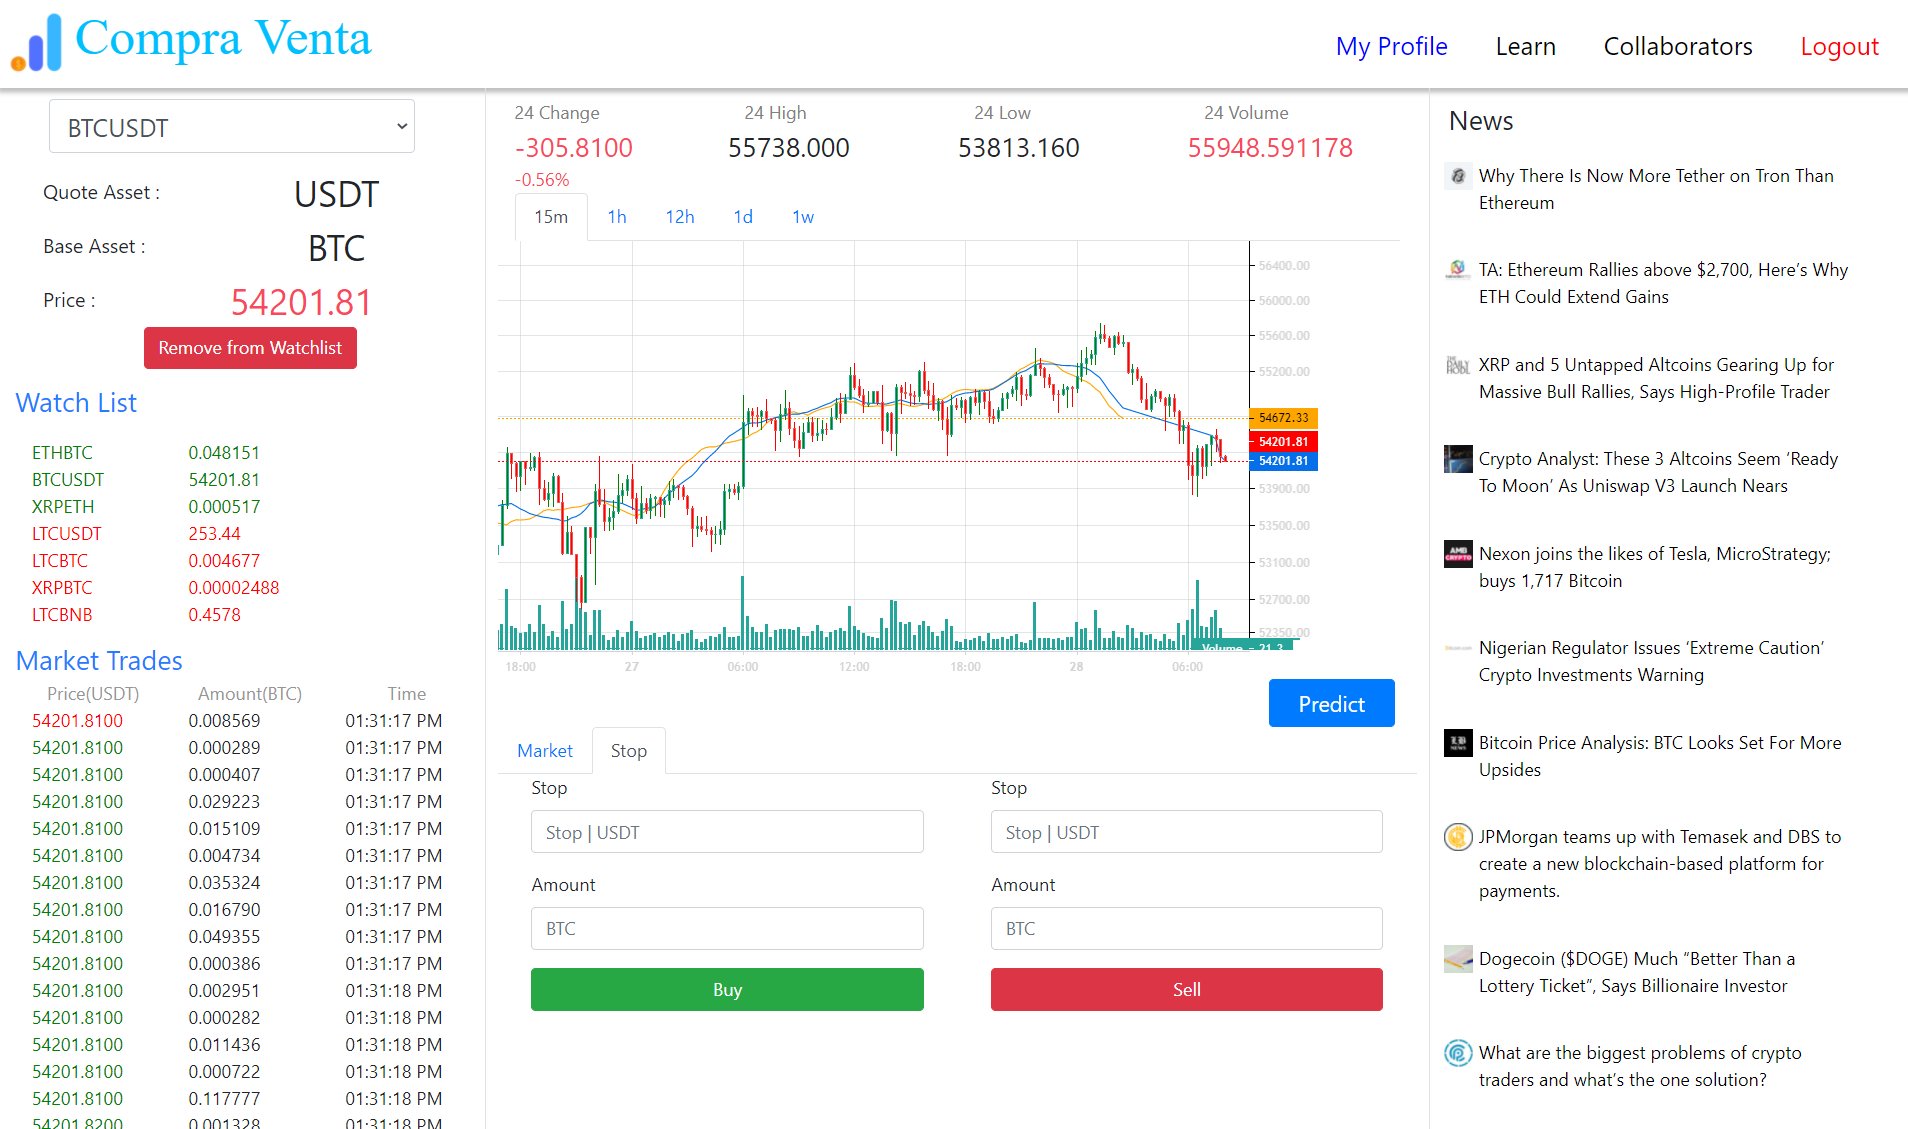
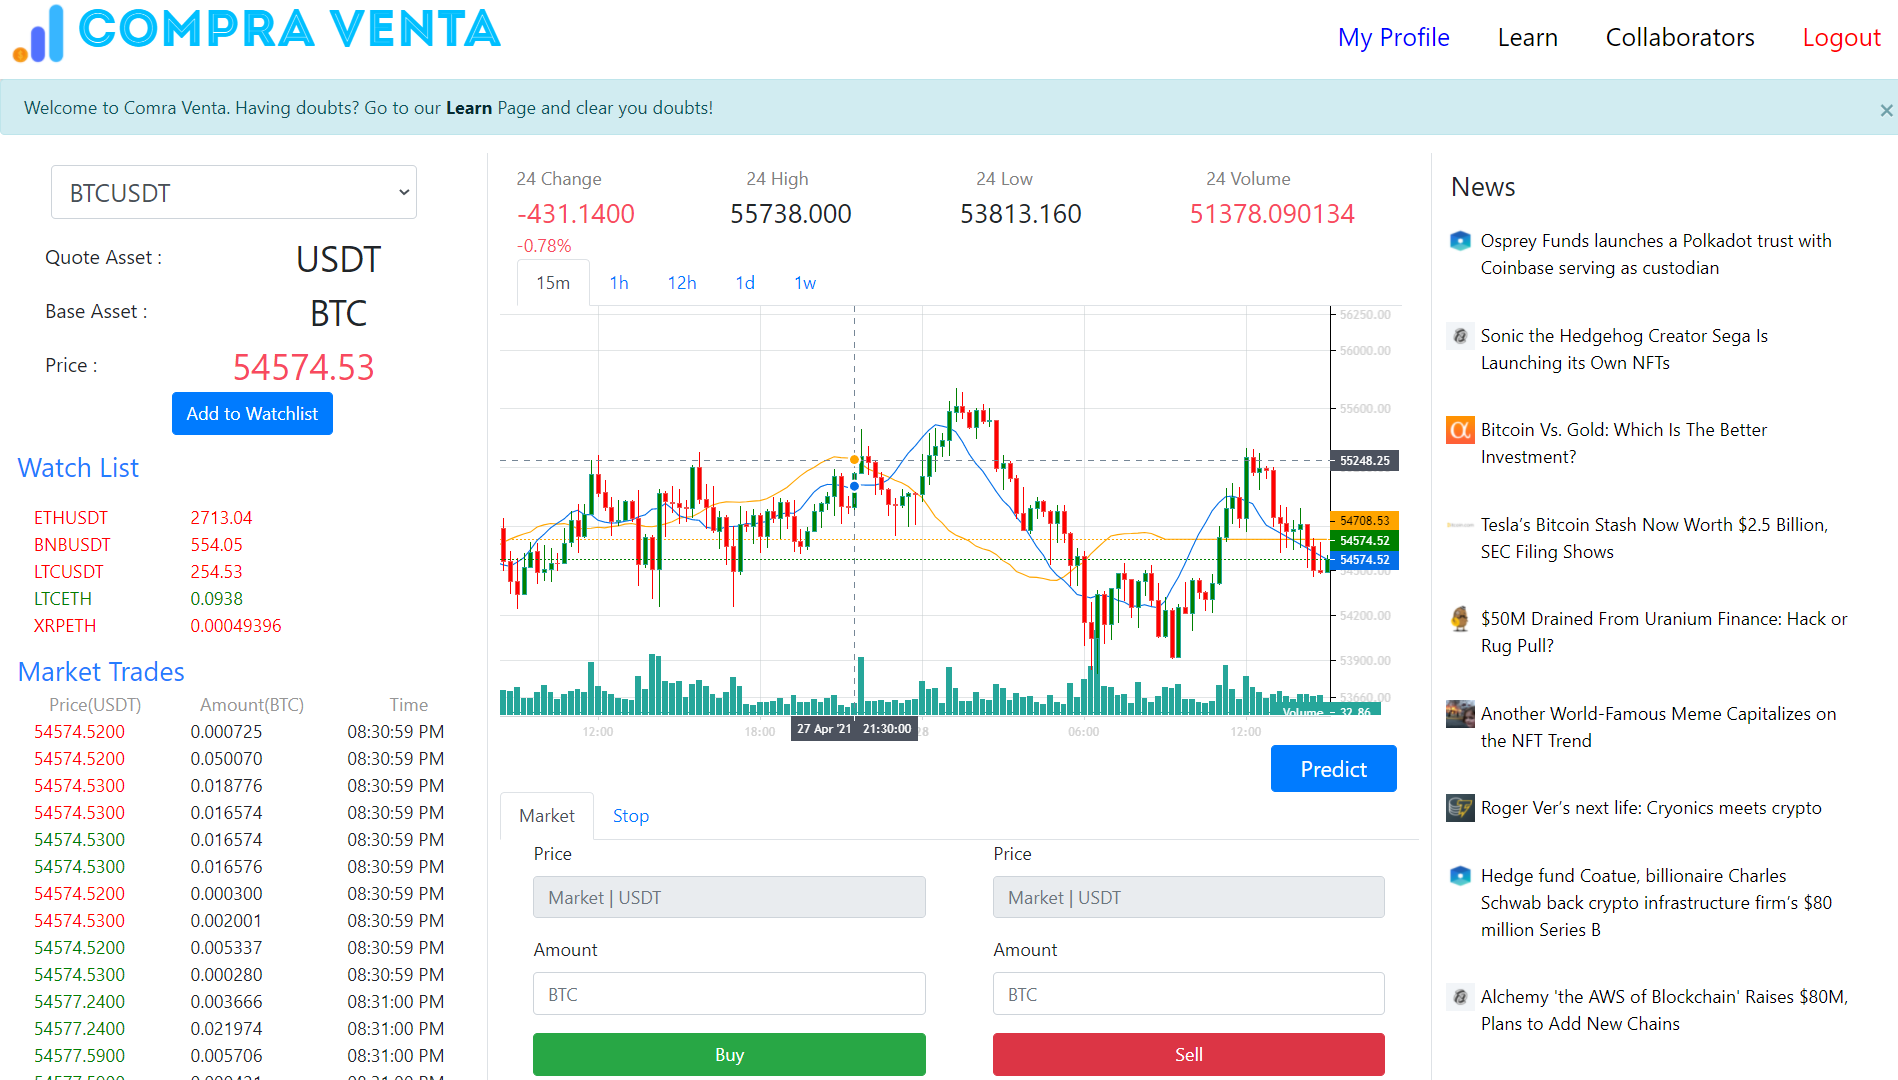
sma, ema corrected

diff --git a/src/components/Learn.js b/src/components/Learn.js
@@ -160,16 +160,42 @@ toggleNavbar = () =>{
                             <div   style={{ paddingLeft: 50,paddingBottom:50 }}>
                                 <h3 id='charts' style={{ fontSize: 30 }}>Charts</h3>
                                 <br/>
-                                <img src='assets/images/learnPage/candlestick.jpeg' style={{height:'30vh', borderStyle:'groove' }}/>
-                                <div style={{ fontSize: 22, lineHeight: '1.6' }}>
-
-                                Candlesticks charts are mostly used to analyze the trading trend.<br/>
-                                Each candle corresponds to a time interval. The endpoints of the box in the candle represents the price of the symbol at starting and end of the interval. If the closing price (price at the end) is more than opening price (price at the starting) then the candle is coloured green, otherwise it is colored red. The endpoints of the line, shows the highest and lowest price in the particular interval.<br/><br/>
-                                <img src='assets/images/learnPage/chart.png' style={{height:'50vh',width:'100%', borderStyle:'groove' }}/><br/><br/>
+                                <img src='assets/images/learnPage/chart.png' style={{height:'80vh',width:'80%', borderStyle:'groove' }}/><br/><br/>
+                                <div style={{ fontSize: 22, lineHeight: '1.6' }}>                                
+                                A total of 4 graphs are used in this chart which are described as follows:-
+                                <ol>
+                                    <li>
+                                        <h3>CandleSticks</h3><br/>
+                                        Candlesticks charts are mostly used to analyze the trading trend.<br/>
+                                        Each candle corresponds to a time interval. The endpoints of the box in the candle represents the price of the symbol at starting and end of the interval. If the closing price (price at the end) is more than opening price (price at the starting) then the candle is coloured green, otherwise it is colored red. The endpoints of the line, shows the highest and lowest price in the particular interval.<br/><br/>
+                                        <img src='assets/images/learnPage/candlestick.jpeg' style={{height:'40vh', borderStyle:'groove' }}/>      
+                                    </li>
+                                    <li>
+                                        <h3>Moving Averages</h3><br/>
+                                        We have used <i>2</i> moving averages for showing the trend of the market.
+                                        <ul>
+                                            <li>
+                                            An <i>Exponential Moving Average</i> (EMA) is a type of moving average (MA) that places a greater weight and significance on the most recent data points. The exponential moving average is also referred to as the exponentially weighted moving average. An exponentially weighted moving average reacts more significantly to recent price changes than a simple moving average (SMA),
+                                             which applies an equal weight to all observations in the period. Here Smoothing = 2.
+                                            <br/><img src='assets/images/learnPage/emaformula.png' style={{height:'55vh'}} />                                          
+                                            </li>
+                                            <li>
+                                             A <i>Simple Moving Average</i> (SMA) calculates the average of a selected range of prices, usually closing prices, by the number of periods in that range.Short-term averages respond quickly to changes in the price of the underlying security, while long-term averages are slower to react.
+                                             <br/><img src='assets/images/learnPage/smaformula.png' style={{height:'47vh'}} />                                          
+                                            </li>
+                                        </ul>
+                                        <i> Here is the video will help you to predict different patterns using these averages.<br/>(Source: Binance)</i>
+                                        <div className='video-responsive'>
+                                        <iframe width="560" height="315" src="https://www.youtube.com/embed/WYnKlC1AEV0" title="YouTube video player" frameborder="0" allow="accelerometer; autoplay; clipboard-write; encrypted-media; gyroscope; picture-in-picture" allowfullscreen></iframe>     
+                                        </div>                                
+                                    </li>
+                                    <li>
+                                        <h3>Price by Volume</h3><br/>
+                                        A price by volume (PBV) chart is a horizontal histogram plotted on a security's chart, showing the volume of shares traded at a specific price level. Often times, price by volume histograms are found on the Y-axis and are used by technical traders to predict areas of support and resistance.
+                                    </li>
+                                </ol>
                                 
-                                <div className='video-responsive'>
-                                <iframe width="560" height="315" src="https://www.youtube.com/embed/WYnKlC1AEV0" title="YouTube video player" frameborder="0" allow="accelerometer; autoplay; clipboard-write; encrypted-media; gyroscope; picture-in-picture" allowfullscreen></iframe>     
-                                </div></div></div>
+                                </div></div>
                                     <div  style={{ paddingLeft: 50,paddingBottom:50 }}>
                                 <h3 id='orders' style={{ fontSize: 30 }}>Orders</h3>
                                 <br/><br/>
@@ -182,10 +208,11 @@ toggleNavbar = () =>{
                                 Market orders do not require the price at which you need to sell/buy.<br/><br/> 
                                 The price value is filled by the exchange. For famous cryptocurrencies (like on our platform), the orders are traded almost instantly. <br/><br/>
 
-                                Stop Orders are traded when a certain price value hits. For example you want to buy BTC in exchange to USD, when its price hits 50,000 USD. In this case you can add the stop value to 50,000 and your order will be traded whenever the BTC hits 50,000 mark. For name sake, Stop orders are of 2 types explained below.<br/><br/>
-
+                                Stop Orders are traded when a certain price value hits. For example you want to buy BTC in exchange to USD, when its price hits 50,000 USD. In this case you can add the stop value to 50,000 and your order will be traded whenever the BTC hits 50,000 mark. For name sake, Stop orders are of 2 types explained below.
+                                <br/>Compra Venta provides user a feature to <span style={{color:'red'}}>cancel</span> any open order if the order is not placed yet.
+                                <br/><br/>
                                 </div>
-                                <img src='assets/images/learnPage/buysell.jpeg' style={{height:'30vh', width:'100%', borderStyle:'groove' }}/>
+                                <img src='assets/images/learnPage/buysell.jpeg' style={{height:'30vh', width:'85%', borderStyle:'groove' }}/>
                                 </div>
                                 <div  style={{ paddingLeft: 50,paddingBottom:50 }}>
                                 <h3 id='predictions' style={{ fontSize: 30 }}>Predictions</h3>
@@ -218,6 +245,19 @@ toggleNavbar = () =>{
                                 User can register to Compra Venta using their Email ID. At any point of time, user may feel free to change their passwords or reset the account details.<br/><br/>
 
                                 By Reseting account, we mean that user can undo all the transactions, cancel ongoing transactions and bring wallet to initial state.
+
+                                A dedicated My Profile page is also designed where user can check their personal details, all their previous and ongoing transactions, cancel the open orders, reset their account and can also check wallet where balances of all coins are shown. 
+                                <br/>Balances are of 2 types:
+                                <ul>
+                                    <li>
+                                        Balance: All the transactions that happen using Market Order, the exchange value of coins is updated in Balance. 
+                                    </li>
+                                    <li>
+                                        Fixed Balance: All the transactions that happen using Stop Order, the exchange value of coins is temporarily reserved in fixed balance and updated in Balance once the transaction is completed.
+                                    </li>
+                                </ul>
+                                For getting if user is earning profit by doing transactions, user are provided the <span style={{color:'blue'}}>Assets Earned</span> and a <span style={{color:'blue'}}>Rating System</span> which will motivate them to trade by analysing more even without any risk! 
+                                <br/> Assets Earned: Current Assets - Initial Assets
                                 </div>
                                
                                 </div>

diff --git a/src/components/Chart.js b/src/components/Chart.js
@@ -22,7 +22,7 @@ export class LightweightChart extends React.Component {
 	 calculateSMA = (data) =>{
 		 
 		const a = data.map( d => parseFloat(d.open) )
-		const smaData = new SMA.calculate({period: 20, values : a} )
+		const smaData = new SMA.calculate({period: 10, values : a} )
 		// console.log('SmaData', smaData)
 	
 		const result = [];
@@ -38,7 +38,7 @@ export class LightweightChart extends React.Component {
 	  calculateEMA = (data) =>{
 		 
 		const a = data.map( d => parseFloat(d.open) )
-		const emaData = new EMA.calculate({period: 20, values : a} )
+		const emaData = new EMA.calculate({period: 25, values : a} )
 		// console.log('EmaData', emaData)
 		const result = [];
 		for (let i=0; i<emaData.length;i++)
@@ -118,7 +118,7 @@ export class LightweightChart extends React.Component {
     },
 	
 });*/
-	chart.resize(730,390);
+	chart.resize(730,400);
 	var candleSeries = chart.addCandlestickSeries({
   		upColor: 'green',
   		downColor: 'red',
@@ -366,6 +366,7 @@ var histogramSeries = chart.addHistogramSeries({
 	priceFormat: {
 		type: 'volume',
 	},
+	
 	priceScaleId: '',
 	scaleMargins: {
 		top: 0.85,
@@ -379,9 +380,10 @@ var histogramSeries = chart.addHistogramSeries({
 histogramSeries.setData(data)
 
 	this.check();
-	// var n = smaData.length
-	// var k = 2 / (n+1)
-	// var prevEma = emaData[n-1];
+	var n = smaData.length
+	var k = 2 / (emaData.length +1 )
+	var prevEma = emaData[emaData.length -1 ].value;
+	var prevSma = smaData[n-1].value
 	//var category= symbol.toLowerCase()
 	var ws = new WebSocket(`wss://stream.binance.com:9443/ws/${symbol.toLowerCase()}@kline_${interval}`)
 	console.log(ws)
@@ -403,18 +405,20 @@ histogramSeries.setData(data)
 			low: candlestick.l,
 			close: candlestick.c
 		});
-		// var value = 0;
+		var smaValue = ( ((prevSma + candlestick.c) / (n + 1)) * (n / prevSma) ) ;
 		smaLine.update({
 			time: candlestick.t /1000,
-			value: candlestick.c 
+			value: smaValue 
 		});
-		// value = candlestick.c * k + prevEma * (1 - k++)
+		prevSma = smaValue
+		n++
+		var emaValue = candlestick.c * k + prevEma * (1 - k)
 		emaLine.update({
 			time: candlestick.t /1000,
-			value: candleSeries.h
-			// value: candlestick.c * k + prevEma * (1 - k++)
+			// value:candlestick.o
+			value: emaValue
 		});
-		// prevEma = value
+		prevEma = emaValue
 		histogramSeries.update({
 			time: candlestick.t /1000,
 			value: candlestick.v

diff --git a/src/components/DashboardComponent.js b/src/components/DashboardComponent.js
@@ -39,13 +39,13 @@ class DashboardComponent extends Component {
         super(props);
         this.state = {
             selectedValue: 'BTCUSDT',
-            current_price: '55505',
-            price:'0.002',
+            current_price: '0.00',
+            price:'0.00',
             h_high: '0.001',
             h_low: '0.00001',
             color: 'green',
             bs_volume: '000',
-            change: '',
+            change: '0.00',
             change_color: 'red',
             prev_val : '3334',
             ws:new WebSocket('wss://stream.binance.com:9443/ws/btcusdt@ticker'),
@@ -367,7 +367,7 @@ class DashboardComponent extends Component {
                 <div>
                 <NavDash logoutUser={this.props.logoutUser}/>
                 </div>
-                <UncontrolledAlert >Welcome to Comra Venta. Having doubts? Go to our <a href='/learn' className='alert-link'>Learn</a> Page and clear you doubts! </UncontrolledAlert>
+                <UncontrolledAlert color='info' >Welcome to Comra Venta. Having doubts? Go to our <a href='/learn' className='alert-link'>Learn</a> Page and clear you doubts! </UncontrolledAlert>
                 <div className='container-fluid'>
                     <div className='row mx-auto'>
                     <div className='col-12 col-lg-3 col-md-4 border-right'>

diff --git a/src/components/Watchlist.js b/src/components/Watchlist.js
@@ -21,7 +21,7 @@ export class Watchlist extends Component {
     
     createwatchlist = (symbol) => {
         
-        console.log('my',symbol)
+        console.log('CoinPair',symbol)
         var checkP = this.state.prices
         //var newP = Object.keys(checkP).filter(symb => symbol.indexOf(symb)!==-1);
         for (const item of Object.keys(checkP)){
@@ -80,9 +80,9 @@ export class Watchlist extends Component {
         this.props.setClick(this.createwatchlist)
     }
     componentDidUpdate(prevProps){
-        console.log('hi i m updated')
+        // console.log('hi i m updated')
         if (prevProps.array !== this.props.array) {
-            console.log('hi',this.props.array);
+            // console.log('hi',this.props.array);
             this.createwatchlist(this.props.array);
           }
     }

diff --git a/src/App.css b/src/App.css
@@ -278,8 +278,8 @@ html{
 .video-responsive iframe{
   left:0;
   top:0;
-  height:100%;
-  width:100%;
+  height:90%;
+  width:90%;
   position:absolute;
 }
 .getStarted{
